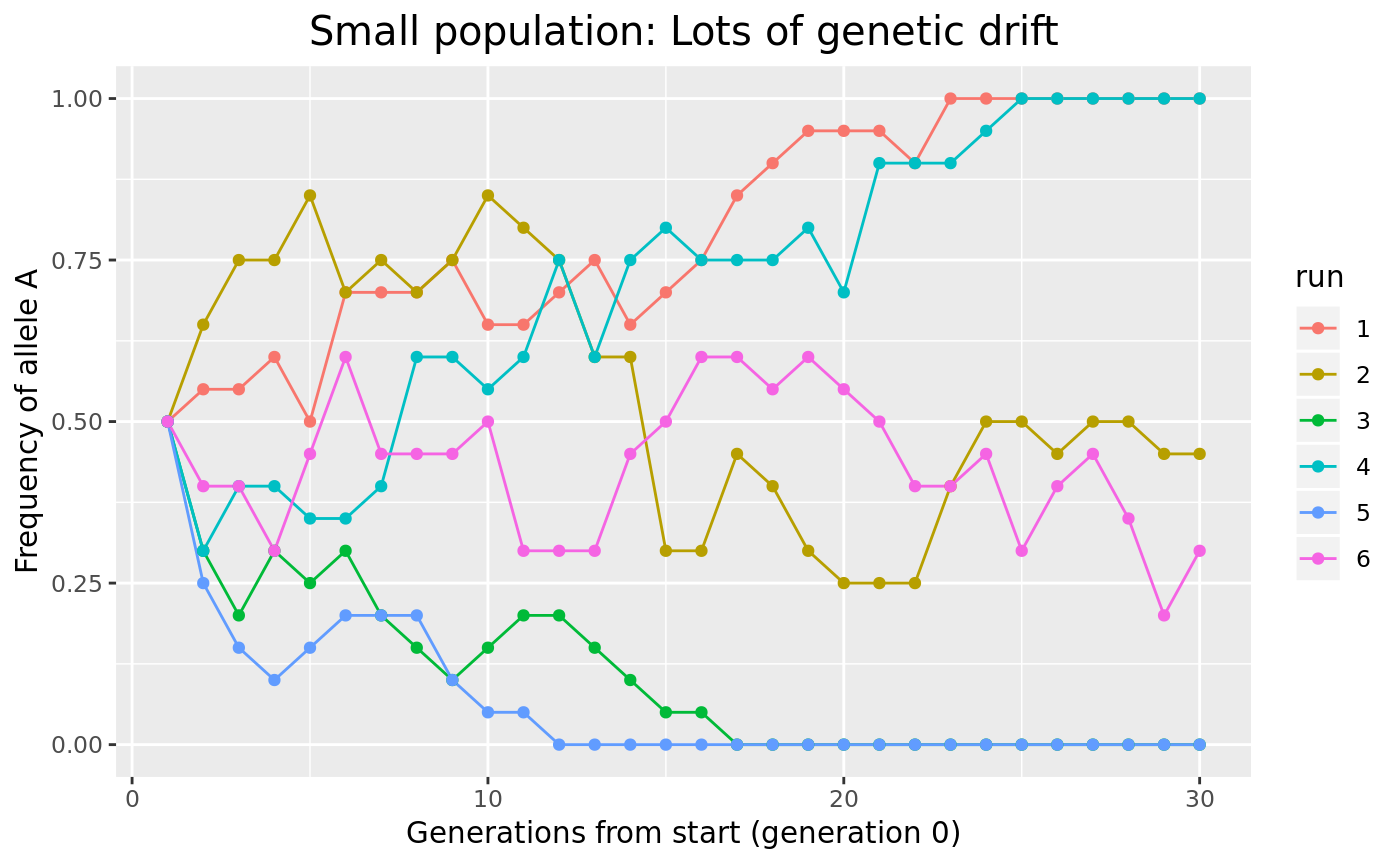
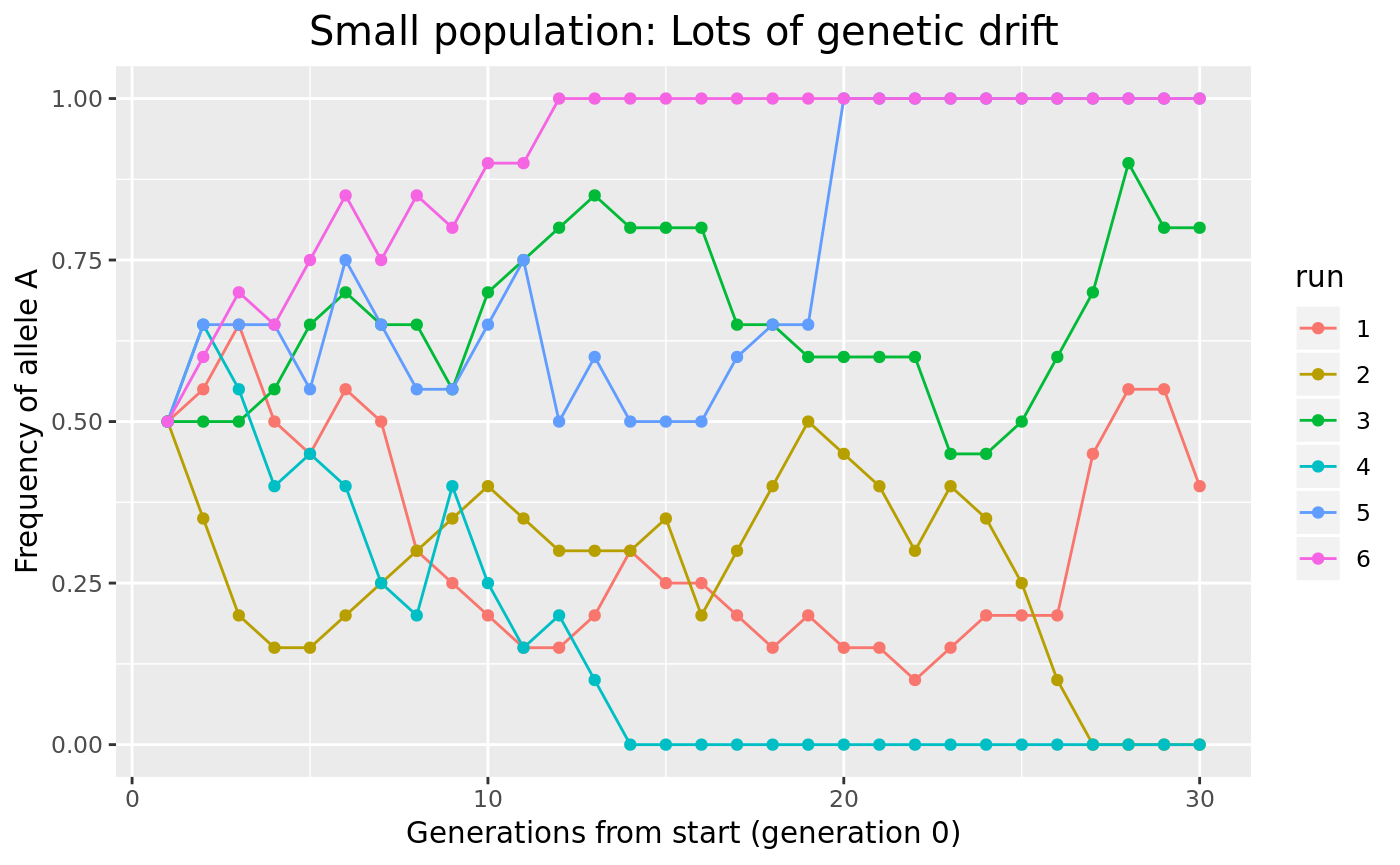
[skip ci] build pkgdown at 2019-05-02 08:33:04

diff --git a/articles/pgmcs.html b/articles/pgmcs.html
@@ -95,7 +95,9 @@
 
     
     
-<div class="sourceCode" id="cb1"><pre class="sourceCode r"><code class="sourceCode r"><a class="sourceLine" id="cb1-1" title="1"><span class="kw"><a href="https://www.rdocumentation.org/packages/base/topics/library">library</a></span>(pgmcs)</a></code></pre></div>
+<div class="sourceCode" id="cb1"><pre class="sourceCode r"><code class="sourceCode r"><a class="sourceLine" id="cb1-1" title="1"><span class="kw"><a href="https://www.rdocumentation.org/packages/base/topics/library">library</a></span>(pgmcs)</a>
+<a class="sourceLine" id="cb1-2" title="2"></a>
+<a class="sourceLine" id="cb1-3" title="3"><span class="kw"><a href="https://www.rdocumentation.org/packages/base/topics/warning">suppressWarnings</a></span>(<span class="kw"><a href="https://www.rdocumentation.org/packages/base/topics/Random">RNGversion</a></span>(<span class="st">'3.5.2'</span>))</a></code></pre></div>
 <div id="command-line-usage" class="section level1">
 <h1 class="hasAnchor">
 <a href="#command-line-usage" class="anchor"></a>Command line usage</h1>
